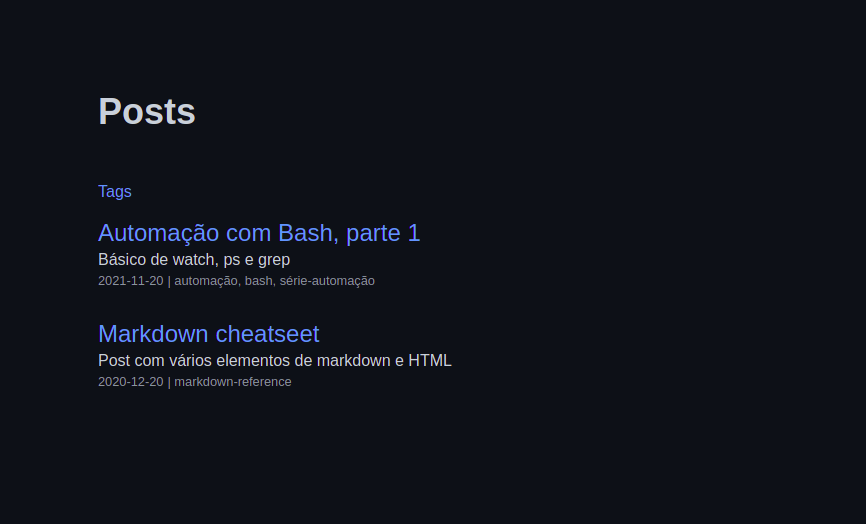
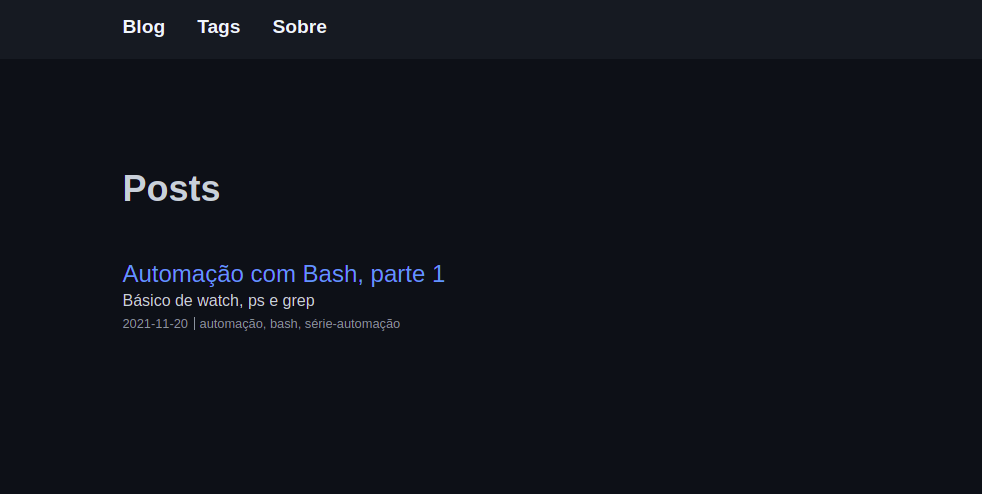
changed convention for draft files to '@d'

diff --git a/src/lib/postFunctions.ts b/src/lib/postFunctions.ts
@@ -15,9 +15,9 @@ import FrontMatterParser from './FrontMatterParser'
 const postsDirectory = path.join(process.cwd(), 'posts')
 let filenames = fs.readdirSync(postsDirectory)
 
-// convenção temporária: arquivos que começam com "-" não aparecem em produção
+// convenção temporária: arquivos que contém "@d" (draft) não aparecem em produção
 if (process.env.NODE_ENV !== 'development')
-  filenames = filenames.filter((fn) => !fn.startsWith('-'))
+  filenames = filenames.filter((fn) => !fn.includes('@d'))
 
 export async function getSortedPosts(): Promise<Post[]> {
   const allPosts = filenames.map(async (filename) => loadPost(filename, false))

diff --git a/posts/2021-11-20-automacao-com-bash-parte-1.md b/posts/2021-11-20-automacao-com-bash-parte-1.md
@@ -48,7 +48,7 @@ foi onde eu formei a base do meu conhecimento (ainda fraca por falta de prática
 do programa `sed` e de [regex](https://en.wikipedia.org/wiki/Regular_expression)
 (regular expressions ou expressões regulares),
 que vão ser bastante usados nesta série. Se você estuda Ciências da Computação ou
-Engeharia de Software, vale à pena você dar uma olhada nessa disciplina.
+Engenharia de Software, vale à pena você dar uma olhada nessa disciplina.
 
 ## Tópicos deste post
 
